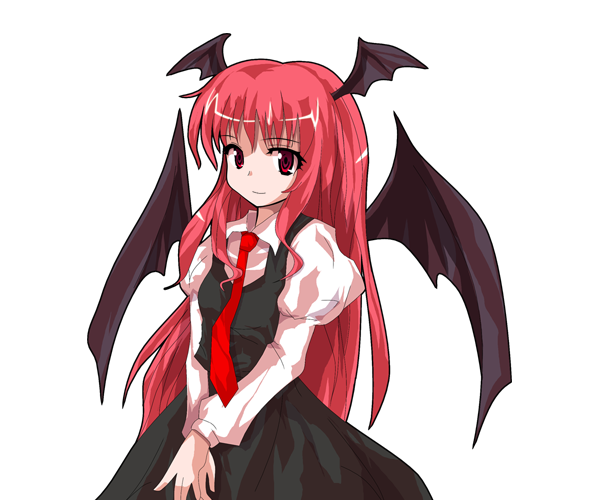
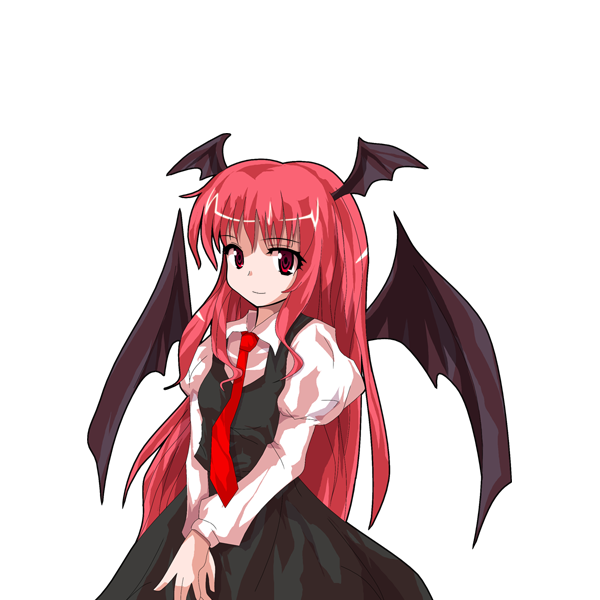
Name styling and adjustments

diff --git a/src/components/Character/Character.jsx b/src/components/Character/Character.jsx
@@ -9,11 +9,13 @@ function Character(props) {
     });
 
 
-
+    
     const renderCharacterPanel = (panel) => {
         const { name, image } = latestProps[panel];
+        const isBlankPanel = name === ' ' && image === './portraits/blank.png';
+
         return (
-            <div key={panel} className="character-panel">
+            <div key={panel} className={`character-panel ${isBlankPanel ? 'blank-panel' : ''}`}>
                 <h1>{name || props.name}</h1>
                 <img
                     className="character-portrait"

diff --git a/src/components/Character/Character.css b/src/components/Character/Character.css
@@ -13,9 +13,17 @@
 
 .character-panel h1 {
     font-family: 'Playfair Display', serif;
+    z-index: 2;
+    background-image: linear-gradient(to right, transparent, white, white, white, white, white, transparent);
+    padding: 10px 30px;
+}
+
+.character-panel.blank-panel h1 {
+    background-image: none;
 }
 
 .character-portrait {
     max-width: 100%;
     height: auto;
+    margin-top: -17%;
 }
